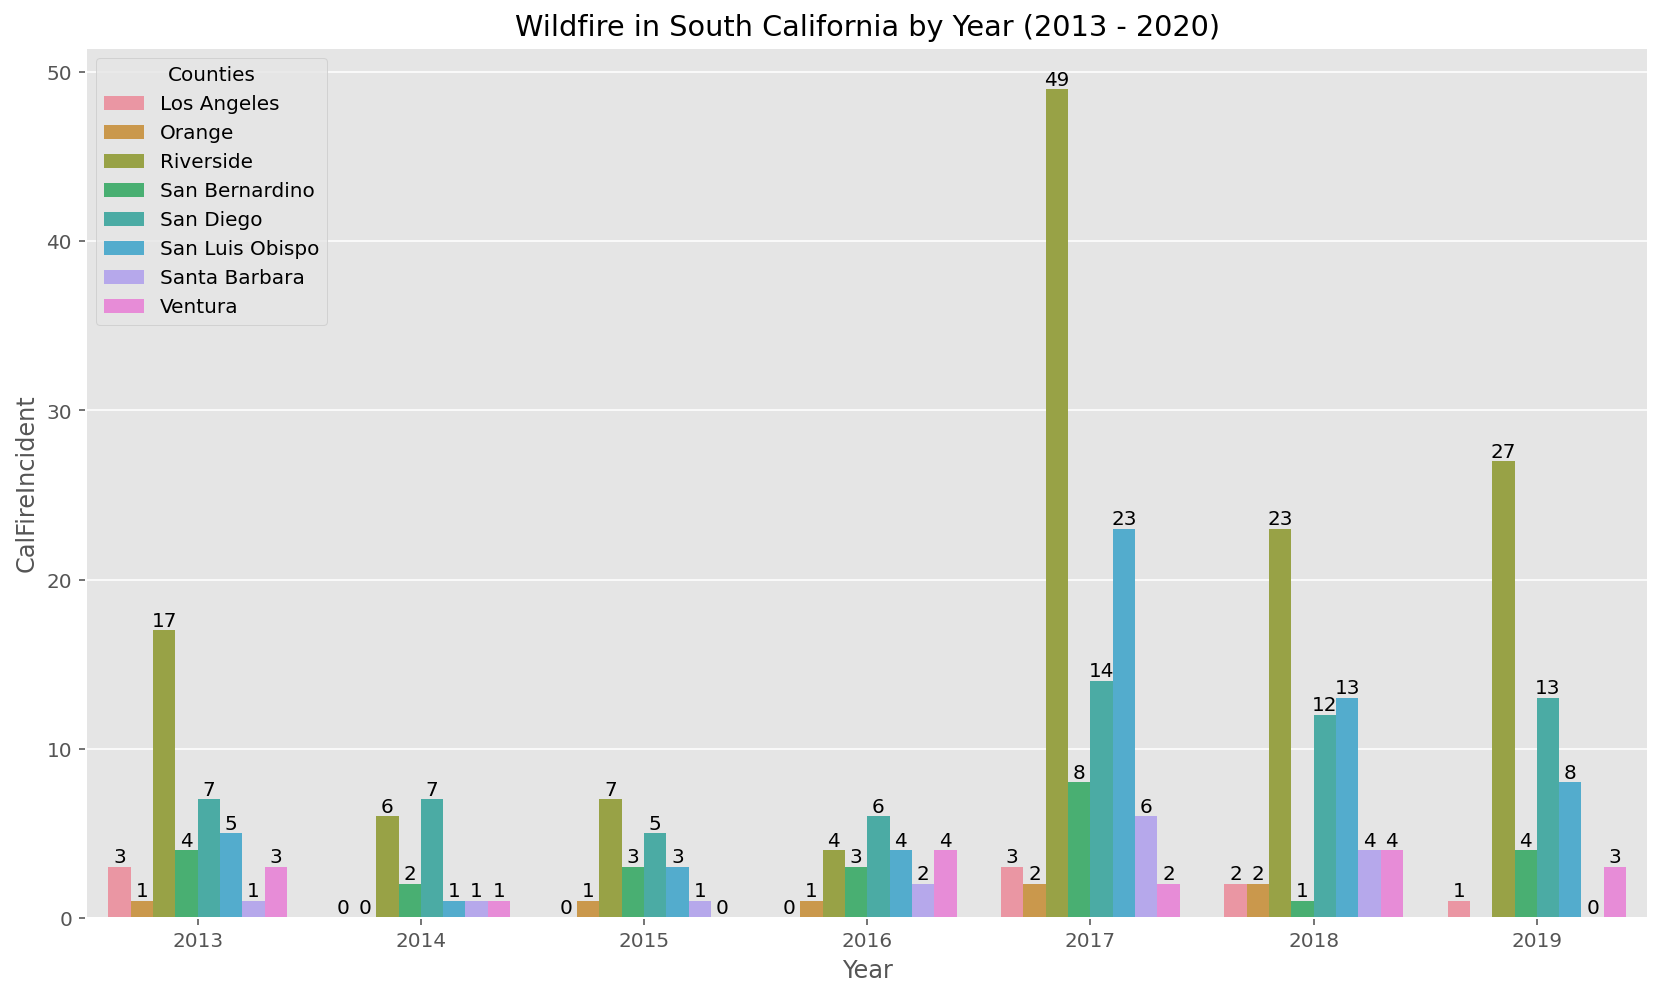
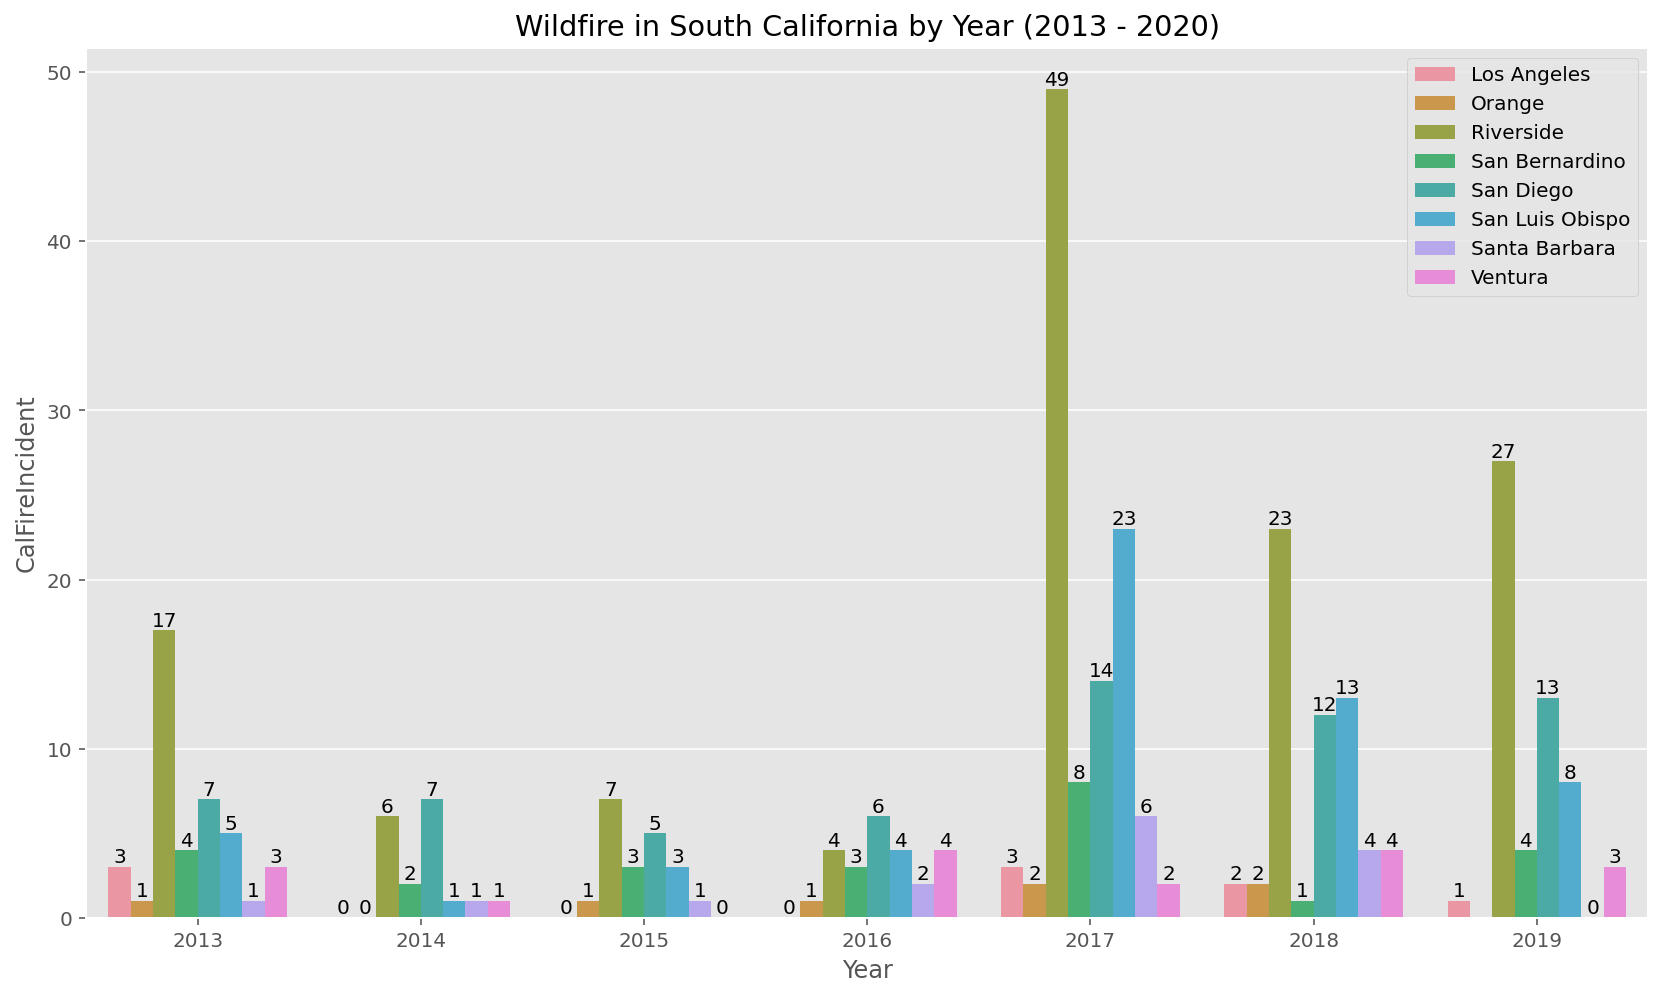
update : 19-9-2002/20:40
updated

Changed region(s): [[0.8285, 0.0622, 0.9819, 0.2798], [0.0614, 0.0622, 0.1841, 0.3109]]

diff --git a/posts/southcal_fireincident_2013_2020/index.html b/posts/southcal_fireincident_2013_2020/index.html
@@ -195,7 +195,7 @@ code span.wa { color: #60a0b0; font-weight: bold; font-style: italic; } /* Warni
   <div>
     <div class="abstract">
       <div class="abstract-title">Abstract</div>
-      Exploratory data analysis on Southern California Wildfire Incident - [updated: 18 Sept 2022]
+      Exploratory data analysis on Southern California Wildfire Incident - [updated: 19 Sept 2022]
     </div>
   </div>
   
@@ -210,12 +210,14 @@ code span.wa { color: #60a0b0; font-weight: bold; font-style: italic; } /* Warni
   <li><a href="#data-preparation" id="toc-data-preparation" class="nav-link active" data-scroll-target="#data-preparation">Data Preparation</a></li>
   <li><a href="#exploratory-data-analysis" id="toc-exploratory-data-analysis" class="nav-link" data-scroll-target="#exploratory-data-analysis">Exploratory Data Analysis</a>
   <ul class="collapse">
-  <li><a href="#wildfire-in-southern-california-by-year-2013---2020" id="toc-wildfire-in-southern-california-by-year-2013---2020" class="nav-link" data-scroll-target="#wildfire-in-southern-california-by-year-2013---2020">1. Wildfire in Southern California by Year (2013 - 2020)</a></li>
-  <li><a href="#wildfire-in-southern-california-by-month-2013--2020" id="toc-wildfire-in-southern-california-by-month-2013--2020" class="nav-link" data-scroll-target="#wildfire-in-southern-california-by-month-2013--2020">2. Wildfire in Southern California by Month (2013 -2020)</a></li>
-  <li><a href="#wildfire-incident-in-southern-california-2013--2020" id="toc-wildfire-incident-in-southern-california-2013--2020" class="nav-link" data-scroll-target="#wildfire-incident-in-southern-california-2013--2020">3. Wildfire Incident in Southern California (2013 -2020)</a></li>
-  <li><a href="#acresburned-in-southern-california-2013--2020" id="toc-acresburned-in-southern-california-2013--2020" class="nav-link" data-scroll-target="#acresburned-in-southern-california-2013--2020">4. AcresBurned in Southern California (2013 -2020)</a></li>
+  <li><a href="#wildfire-in-southern-california-by-year" id="toc-wildfire-in-southern-california-by-year" class="nav-link" data-scroll-target="#wildfire-in-southern-california-by-year">1. Wildfire in Southern California by Year</a></li>
+  <li><a href="#wildfire-in-southern-california-by-month" id="toc-wildfire-in-southern-california-by-month" class="nav-link" data-scroll-target="#wildfire-in-southern-california-by-month">2. Wildfire in Southern California by Month</a></li>
+  <li><a href="#wildfire-incident-in-southern-california" id="toc-wildfire-incident-in-southern-california" class="nav-link" data-scroll-target="#wildfire-incident-in-southern-california">3. Wildfire Incident in Southern California</a></li>
+  <li><a href="#acresburned-in-southern-california" id="toc-acresburned-in-southern-california" class="nav-link" data-scroll-target="#acresburned-in-southern-california">4. AcresBurned in Southern California</a></li>
+  <li><a href="#averageburned-vs-calfireincidents" id="toc-averageburned-vs-calfireincidents" class="nav-link" data-scroll-target="#averageburned-vs-calfireincidents">5. AverageBurned vs CalFireIncidents</a></li>
+  <li><a href="#average-acresburned-per-incident" id="toc-average-acresburned-per-incident" class="nav-link" data-scroll-target="#average-acresburned-per-incident">6. Average AcresBurned per Incident</a></li>
   </ul></li>
-  <li><a href="#source" id="toc-source" class="nav-link" data-scroll-target="#source">5. Source</a></li>
+  <li><a href="#source" id="toc-source" class="nav-link" data-scroll-target="#source">Source</a></li>
   </ul>
 </nav>
     </div>
@@ -1027,8 +1029,8 @@ memory usage: 472.9+ KB</code></pre>
 </section>
 <section id="exploratory-data-analysis" class="level1">
 <h1>Exploratory Data Analysis</h1>
-<section id="wildfire-in-southern-california-by-year-2013---2020" class="level2">
-<h2 class="anchored" data-anchor-id="wildfire-in-southern-california-by-year-2013---2020">1. Wildfire in Southern California by Year (2013 - 2020)</h2>
+<section id="wildfire-in-southern-california-by-year" class="level2">
+<h2 class="anchored" data-anchor-id="wildfire-in-southern-california-by-year">1. Wildfire in Southern California by Year</h2>
 <div class="cell" data-execution_count="15">
 <details>
 <summary>Show the code</summary>
@@ -1104,16 +1106,17 @@ memory usage: 472.9+ KB</code></pre>
 <span id="cb35-2"><a href="#cb35-2" aria-hidden="true" tabindex="-1"></a>plt.title(<span class="st">"Wildfire in South California by Year (2013 - 2020)"</span>)</span>
 <span id="cb35-3"><a href="#cb35-3" aria-hidden="true" tabindex="-1"></a>sort_incident <span class="op">=</span> df_fire_year.sort_values(<span class="st">'CalFireIncident'</span>)</span>
 <span id="cb35-4"><a href="#cb35-4" aria-hidden="true" tabindex="-1"></a>ax <span class="op">=</span> sns.barplot(data<span class="op">=</span>df_fire_year, x <span class="op">=</span> <span class="st">'Year'</span>, y <span class="op">=</span> <span class="st">'CalFireIncident'</span>, hue<span class="op">=</span><span class="st">'Counties'</span>)</span>
-<span id="cb35-5"><a href="#cb35-5" aria-hidden="true" tabindex="-1"></a><span class="cf">for</span> i <span class="kw">in</span> ax.containers:</span>
-<span id="cb35-6"><a href="#cb35-6" aria-hidden="true" tabindex="-1"></a>    ax.bar_label(i,)</span></code><button title="Copy to Clipboard" class="code-copy-button"><i class="bi"></i></button></pre></div>
+<span id="cb35-5"><a href="#cb35-5" aria-hidden="true" tabindex="-1"></a>plt.legend(loc<span class="op">=</span><span class="st">'upper right'</span>)</span>
+<span id="cb35-6"><a href="#cb35-6" aria-hidden="true" tabindex="-1"></a><span class="cf">for</span> i <span class="kw">in</span> ax.containers:</span>
+<span id="cb35-7"><a href="#cb35-7" aria-hidden="true" tabindex="-1"></a>    ax.bar_label(i,)</span></code><button title="Copy to Clipboard" class="code-copy-button"><i class="bi"></i></button></pre></div>
 </details>
 <div class="cell-output cell-output-display">
 <p><img src="index_files/figure-html/cell-17-output-1.png" class="img-fluid"></p>
 </div>
 </div>
 </section>
-<section id="wildfire-in-southern-california-by-month-2013--2020" class="level2">
-<h2 class="anchored" data-anchor-id="wildfire-in-southern-california-by-month-2013--2020">2. Wildfire in Southern California by Month (2013 -2020)</h2>
+<section id="wildfire-in-southern-california-by-month" class="level2">
+<h2 class="anchored" data-anchor-id="wildfire-in-southern-california-by-month">2. Wildfire in Southern California by Month</h2>
 <div class="cell" data-execution_count="17">
 <details>
 <summary>Show the code</summary>
@@ -1189,16 +1192,17 @@ memory usage: 472.9+ KB</code></pre>
 <span id="cb37-2"><a href="#cb37-2" aria-hidden="true" tabindex="-1"></a>plt.title(<span class="st">"Wildfire in South California by Month (2013 - 2020)"</span>)</span>
 <span id="cb37-3"><a href="#cb37-3" aria-hidden="true" tabindex="-1"></a>sort_incident <span class="op">=</span> df_fire_year.sort_values(<span class="st">'CalFireIncident'</span>)</span>
 <span id="cb37-4"><a href="#cb37-4" aria-hidden="true" tabindex="-1"></a>ax <span class="op">=</span> sns.barplot(data<span class="op">=</span>df_fire_month, x <span class="op">=</span> <span class="st">'Month'</span>, y <span class="op">=</span> <span class="st">'CalFireIncident'</span>, hue<span class="op">=</span><span class="st">'Counties'</span>)</span>
-<span id="cb37-5"><a href="#cb37-5" aria-hidden="true" tabindex="-1"></a><span class="cf">for</span> i <span class="kw">in</span> ax.containers:</span>
-<span id="cb37-6"><a href="#cb37-6" aria-hidden="true" tabindex="-1"></a>    ax.bar_label(i,)</span></code><button title="Copy to Clipboard" class="code-copy-button"><i class="bi"></i></button></pre></div>
+<span id="cb37-5"><a href="#cb37-5" aria-hidden="true" tabindex="-1"></a>plt.legend(loc<span class="op">=</span><span class="st">'upper right'</span>)</span>
+<span id="cb37-6"><a href="#cb37-6" aria-hidden="true" tabindex="-1"></a><span class="cf">for</span> i <span class="kw">in</span> ax.containers:</span>
+<span id="cb37-7"><a href="#cb37-7" aria-hidden="true" tabindex="-1"></a>    ax.bar_label(i,)</span></code><button title="Copy to Clipboard" class="code-copy-button"><i class="bi"></i></button></pre></div>
 </details>
 <div class="cell-output cell-output-display">
 <p><img src="index_files/figure-html/cell-19-output-1.png" class="img-fluid"></p>
 </div>
 </div>
 </section>
-<section id="wildfire-incident-in-southern-california-2013--2020" class="level2">
-<h2 class="anchored" data-anchor-id="wildfire-incident-in-southern-california-2013--2020">3. Wildfire Incident in Southern California (2013 -2020)</h2>
+<section id="wildfire-incident-in-southern-california" class="level2">
+<h2 class="anchored" data-anchor-id="wildfire-incident-in-southern-california">3. Wildfire Incident in Southern California</h2>
 <div class="cell" data-execution_count="19">
 <details>
 <summary>Show the code</summary>
@@ -1379,8 +1383,8 @@ memory usage: 472.9+ KB</code></pre>
 </div>
 </div>
 </section>
-<section id="acresburned-in-southern-california-2013--2020" class="level2">
-<h2 class="anchored" data-anchor-id="acresburned-in-southern-california-2013--2020">4. AcresBurned in Southern California (2013 -2020)</h2>
+<section id="acresburned-in-southern-california" class="level2">
+<h2 class="anchored" data-anchor-id="acresburned-in-southern-california">4. AcresBurned in Southern California</h2>
 <div class="cell" data-execution_count="21">
 <details>
 <summary>Show the code</summary>
@@ -1396,9 +1400,127 @@ memory usage: 472.9+ KB</code></pre>
 </div>
 </div>
 </section>
+<section id="averageburned-vs-calfireincidents" class="level2">
+<h2 class="anchored" data-anchor-id="averageburned-vs-calfireincidents">5. AverageBurned vs CalFireIncidents</h2>
+<div class="cell" data-execution_count="22">
+<details>
+<summary>Show the code</summary>
+<div class="sourceCode cell-code" id="cb41"><pre class="sourceCode python code-with-copy"><code class="sourceCode python"><span id="cb41-1"><a href="#cb41-1" aria-hidden="true" tabindex="-1"></a>plt.rcParams[<span class="st">'figure.figsize'</span>]<span class="op">=</span>(<span class="dv">14</span>,<span class="dv">8</span>)</span>
+<span id="cb41-2"><a href="#cb41-2" aria-hidden="true" tabindex="-1"></a>plt.title(<span class="st">"AverageBurned vs CalFireIncident"</span>)</span>
+<span id="cb41-3"><a href="#cb41-3" aria-hidden="true" tabindex="-1"></a>sort_incident <span class="op">=</span> df_incident.sort_values(<span class="st">'CalFireIncident'</span>)</span>
+<span id="cb41-4"><a href="#cb41-4" aria-hidden="true" tabindex="-1"></a>ax <span class="op">=</span> sns.barplot(data<span class="op">=</span>sort_incident, x <span class="op">=</span> <span class="st">'Counties'</span>, y <span class="op">=</span> <span class="st">'CalFireIncident'</span>)</span>
+<span id="cb41-5"><a href="#cb41-5" aria-hidden="true" tabindex="-1"></a>ax <span class="op">=</span> sns.barplot(data<span class="op">=</span>sort_incident, x <span class="op">=</span> <span class="st">'Counties'</span>, y <span class="op">=</span> <span class="st">'AcresBurned'</span>)</span>
+<span id="cb41-6"><a href="#cb41-6" aria-hidden="true" tabindex="-1"></a><span class="cf">for</span> i <span class="kw">in</span> ax.containers:</span>
+<span id="cb41-7"><a href="#cb41-7" aria-hidden="true" tabindex="-1"></a>    ax.bar_label(i,fontsize<span class="op">=</span><span class="dv">14</span>)</span></code><button title="Copy to Clipboard" class="code-copy-button"><i class="bi"></i></button></pre></div>
+</details>
+<div class="cell-output cell-output-display">
+<p><img src="index_files/figure-html/cell-23-output-1.png" class="img-fluid"></p>
+</div>
+</div>
+</section>
+<section id="average-acresburned-per-incident" class="level2">
+<h2 class="anchored" data-anchor-id="average-acresburned-per-incident">6. Average AcresBurned per Incident</h2>
+<div class="cell" data-execution_count="23">
+<details>
+<summary>Show the code</summary>
+<div class="sourceCode cell-code" id="cb42"><pre class="sourceCode python code-with-copy"><code class="sourceCode python"><span id="cb42-1"><a href="#cb42-1" aria-hidden="true" tabindex="-1"></a>burn_ratio <span class="op">=</span> df_incident[[<span class="st">'Counties'</span>,<span class="st">'CalFireIncident'</span>,<span class="st">'AcresBurned'</span>]]</span>
+<span id="cb42-2"><a href="#cb42-2" aria-hidden="true" tabindex="-1"></a>burn_ratio[<span class="st">'AverageBurned'</span>] <span class="op">=</span> burn_ratio[<span class="st">'AcresBurned'</span>]<span class="op">/</span> burn_ratio[<span class="st">'CalFireIncident'</span>]</span>
+<span id="cb42-3"><a href="#cb42-3" aria-hidden="true" tabindex="-1"></a>burn_ratio</span></code><button title="Copy to Clipboard" class="code-copy-button"><i class="bi"></i></button></pre></div>
+</details>
+<div class="cell-output cell-output-display" data-execution_count="23">
+
+<div>
+
+<table class="dataframe table table-sm table-striped">
+  <thead>
+    <tr>
+      <th></th>
+      <th>Counties</th>
+      <th>CalFireIncident</th>
+      <th>AcresBurned</th>
+      <th>AverageBurned</th>
+    </tr>
+  </thead>
+  <tbody>
+    <tr>
+      <th>0</th>
+      <td>Los Angeles</td>
+      <td>9.0</td>
+      <td>194580.0</td>
+      <td>21620.000000</td>
+    </tr>
+    <tr>
+      <th>1</th>
+      <td>Orange</td>
+      <td>7.0</td>
+      <td>36764.0</td>
+      <td>5252.000000</td>
+    </tr>
+    <tr>
+      <th>2</th>
+      <td>Riverside</td>
+      <td>133.0</td>
+      <td>97362.0</td>
+      <td>732.045113</td>
+    </tr>
+    <tr>
+      <th>3</th>
+      <td>San Bernardino</td>
+      <td>25.0</td>
+      <td>90897.0</td>
+      <td>3635.880000</td>
+    </tr>
+    <tr>
+      <th>4</th>
+      <td>San Diego</td>
+      <td>64.0</td>
+      <td>65394.0</td>
+      <td>1021.781250</td>
+    </tr>
+    <tr>
+      <th>5</th>
+      <td>San Luis Obispo</td>
+      <td>57.0</td>
+      <td>98757.0</td>
+      <td>1732.578947</td>
+    </tr>
+    <tr>
+      <th>6</th>
+      <td>Santa Barbara</td>
+      <td>15.0</td>
+      <td>362568.0</td>
+      <td>24171.200000</td>
+    </tr>
+    <tr>
+      <th>7</th>
+      <td>Ventura</td>
+      <td>17.0</td>
+      <td>428304.0</td>
+      <td>25194.352941</td>
+    </tr>
+  </tbody>
+</table>
+</div>
+</div>
+</div>
+<div class="cell" data-execution_count="24">
+<details>
+<summary>Show the code</summary>
+<div class="sourceCode cell-code" id="cb43"><pre class="sourceCode python code-with-copy"><code class="sourceCode python"><span id="cb43-1"><a href="#cb43-1" aria-hidden="true" tabindex="-1"></a>plt.rcParams[<span class="st">'figure.figsize'</span>]<span class="op">=</span>(<span class="dv">14</span>,<span class="dv">8</span>)</span>
+<span id="cb43-2"><a href="#cb43-2" aria-hidden="true" tabindex="-1"></a>plt.title(<span class="st">"Average AcresBurned per Incident in Southern California(2013 - 2020)"</span>)</span>
+<span id="cb43-3"><a href="#cb43-3" aria-hidden="true" tabindex="-1"></a>sort_burned <span class="op">=</span> burn_ratio.sort_values(<span class="st">'AverageBurned'</span>)</span>
+<span id="cb43-4"><a href="#cb43-4" aria-hidden="true" tabindex="-1"></a>ax <span class="op">=</span> sns.barplot(data<span class="op">=</span>sort_burned, x <span class="op">=</span> <span class="st">'Counties'</span>, y <span class="op">=</span> <span class="st">'AverageBurned'</span>)</span>
+<span id="cb43-5"><a href="#cb43-5" aria-hidden="true" tabindex="-1"></a><span class="cf">for</span> i <span class="kw">in</span> ax.containers:</span>
+<span id="cb43-6"><a href="#cb43-6" aria-hidden="true" tabindex="-1"></a>    ax.bar_label(i,fontsize<span class="op">=</span><span class="dv">14</span>)</span></code><button title="Copy to Clipboard" class="code-copy-button"><i class="bi"></i></button></pre></div>
+</details>
+<div class="cell-output cell-output-display">
+<p><img src="index_files/figure-html/cell-25-output-1.png" class="img-fluid"></p>
+</div>
+</div>
+</section>
 </section>
 <section id="source" class="level1">
-<h1>5. Source</h1>
+<h1>Source</h1>
 <p>“The dataset contains the list of Wildfires that has occurred in California between 2013 and 2020. The dataset contains the location where wildfires have occurred including the County name, latitude and longitude values and also details on when the wildfire has started.”</p>
 <p>https://www.kaggle.com/datasets/ananthu017/california-wildfire-incidents-20132020</p>
 

diff --git a/index.html b/index.html
@@ -198,7 +198,7 @@ Lulus Adhitya
 </a>
 </div>
 </div>
-<div class="quarto-post image-right" data-index="1" data-categories="california,analysis,wildfire" data-listing-date-sort="1663347600000" data-listing-file-modified-sort="1663565534510" data-listing-reading-time-sort="2.27">
+<div class="quarto-post image-right" data-index="1" data-categories="california,analysis,wildfire" data-listing-date-sort="1663347600000" data-listing-file-modified-sort="1663594644131" data-listing-reading-time-sort="2.585">
 <div class="thumbnail">
 <p><a href="./posts/southcal_fireincident_2013_2020/index.html"> <img src="./posts/southcal_fireincident_2013_2020/wildfire.jpg" class="thumnail-image"> </a></p>
 </div>
@@ -224,7 +224,7 @@ wildfire
 </div>
 <a href="./posts/southcal_fireincident_2013_2020/index.html">
 <div class="listing-description">
-<p>Exploratory data analysis on Southern California Wildfire Incident - [updated: 18 Sept 2022]</p>
+<p>Exploratory data analysis on Southern California Wildfire Incident - [updated: 19 Sept 2022]</p>
 </div>
 </a>
 </div>
